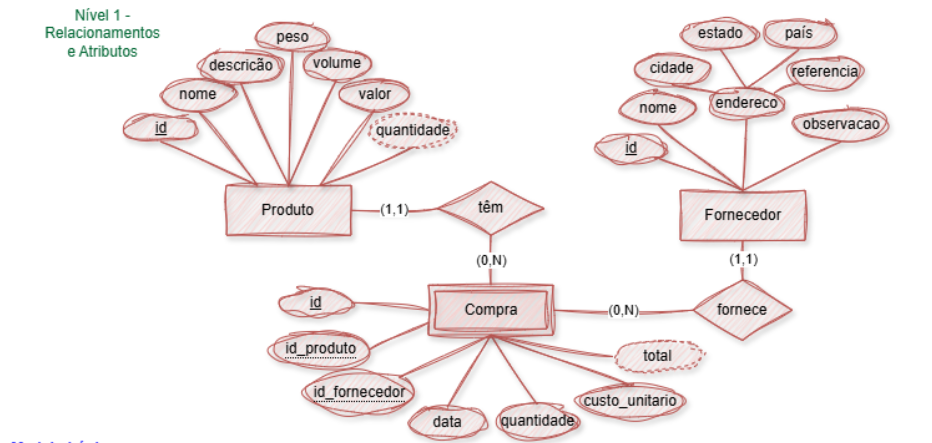
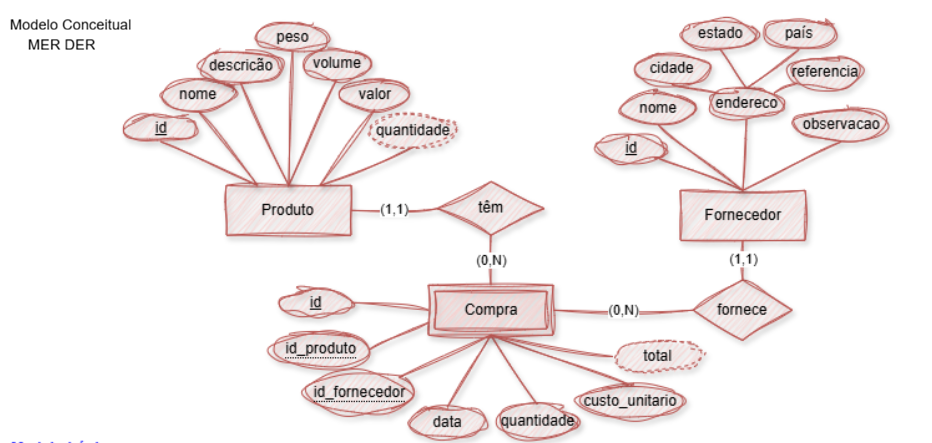
AULA05

Changed region(s): [[0.0, 0.0, 0.1867, 0.1467]]

diff --git a/ds/turmas/1DES_A/2º Semestre/01-bcd/aula05/README.md b/ds/turmas/1DES_A/2º Semestre/01-bcd/aula05/README.md
@@ -1,0 +1,104 @@
+# Aula05 - Manipulação de dados com SQL
+
+## Capacidades técnicas
+- 9 Utilizar linguagem de definição de dados (DDL)
+- 10 Utilizar linguagem de manipulação de dados (DML)
+- 11 Utilizar funções nativas do banco de dados
+
+## Conhecimentos
+  - 2.5 Migração de dados
+    - 2.5.1 Exportação de dados
+    - 2.5.2 Importação de dados
+  - 2.6  DML (Data Manipulation Language)
+    - 2.6.1 INSERT
+    - 2.6.2 UPDATE
+    - 2.6.3 DELETE
+    - 2.6.4 SELECT
+
+## Capacidades Socioemocionais
+- 1 Demonstrar autogestão
+- 2 Demonstrar pensamento analítico
+- 4 Demonstrar autonomia
+
+## Prática
+Vamos executar o script de criação do banco de dados do Caixeiro Viajante, que será utilizado para a prática de manipulação de dados com SQL.
+
+|MER DER Conceitual - BD Caixeiro Viajante|
+|-|
+|![MER DER](./pedidos_mer_der_conceitual.png)|
+
+- Crie uma pasta na área de trabalho com o nome `pedidos`;
+- Abra a pasta com VsCode dentro dela crie um arquivo chamado `ddl.sql`.
+- Copie e cole o Script abaixo no arquivo `ddl.sql` e salve o arquivo.
+
+```sql
+-- CRUD (Criar, Ler, Atualizar e Deletar)
+-- DDL (Data Definition Language)
+-- CRUD DDL (Create, [Show, Describe], Alter, Drop)
+
+-- Para criar do zero podemos excluir o banco se já existe e criar novamente
+DROP DATABASE IF EXISTS pedidos;
+-- Criar um banco de dados chamado "pedidos"
+CREATE DATABASE pedidos;
+-- Selecionar o banco de dados "pedidos" para uso
+USE pedidos;
+-- Criar a tabela de Produtos
+CREATE TABLE produtos (
+    id int primary key not null auto_increment,
+    nome varchar(40) not null,
+    descricao varchar(200) not null,
+    volume decimal(10,2) not null,
+    valor decimal(10,2) not null
+);
+-- Criar a tabela de Pedidos
+CREATE TABLE pedidos (
+    id int primary key not null auto_increment,
+    cliente varchar(40) not null,
+    cep varchar(10) not null,
+    numero varchar(10),
+    complemento varchar(20),
+    data DATE not null default(CURDATE())
+);
+-- Criar a tabela de Itens do Pedido
+CREATE TABLE itens (
+    id int primary key not null auto_increment,
+    id_pedido int not null,
+    id_produto int not null,
+    preco decimal(10,2) not null,
+    quantidade int not null
+);
+-- Criando os relacionamentos, alterando a tabela de itens
+alter table itens add constraint eh foreign key (id_produto) references produtos(id);
+alter table itens add constraint possui foreign key (id_pedido) references pedidos(id);
+-- Exibir os resultados
+describe produtos;
+describe pedidos;
+describe itens;
+show tables;
+```
+- Execute o script no MySQL Workbench ou em outro cliente SQL, para criar o banco de dados e as tabelas.
+- Vamos criar outro arquivo chamado `dml.sql` e criar um script de manipulação de dados, para inserir os dados da [planilha](./dados_pedidos.xlsx) que criamos na aula02 que agora está atualizada neste repositório, baixe-a e coloque-a na sua pasta. 
+- Iniciaremos pelos dados da tabela `fornecedor`, inserindo um por vez.
+```sql
+
+```
+## importação de dados
+- Vamos criar um arquivo chamado `produtos.csv` com o conteúdo a seguir, retirado da planilha `dados_caixeiro.xlsx` que você baixou, e vamos importar os dados para a tabela `produto` do banco de dados `compras_caixeiro`.
+```csv
+```
+- Agora vamos importar os dados do arquivo `produtos.csv` para a tabela `produto` do banco de dados `compras_caixeiro`. Para isso, execute o seguinte comando SQL no MySQL Workbench ou em outro cliente SQL:
+
+```sql
+-- Importar dados de produtos do aquivo produtos.csv
+load data infile 'Caminho do arquivo produtos.csv com as barras trocadas /'
+into table produto
+fields terminated by ';'
+lines terminated by '\n'
+ignore 1 rows;
+
+-- Listando os fornecedores
+select * from produto;
+```
+## Atividades
+- Crie o script dml.sql para inserir os dados no banco de dados do **[Projeto: Gestão de Pedidos](https://github.com/wellifabio/sesi_bcd_aula03_mer_der_dd_dados_2026.git)**
+- Crie o script dml.sql para inserir os dados no banco de dados do sistema que você desenvolveu na aula03
